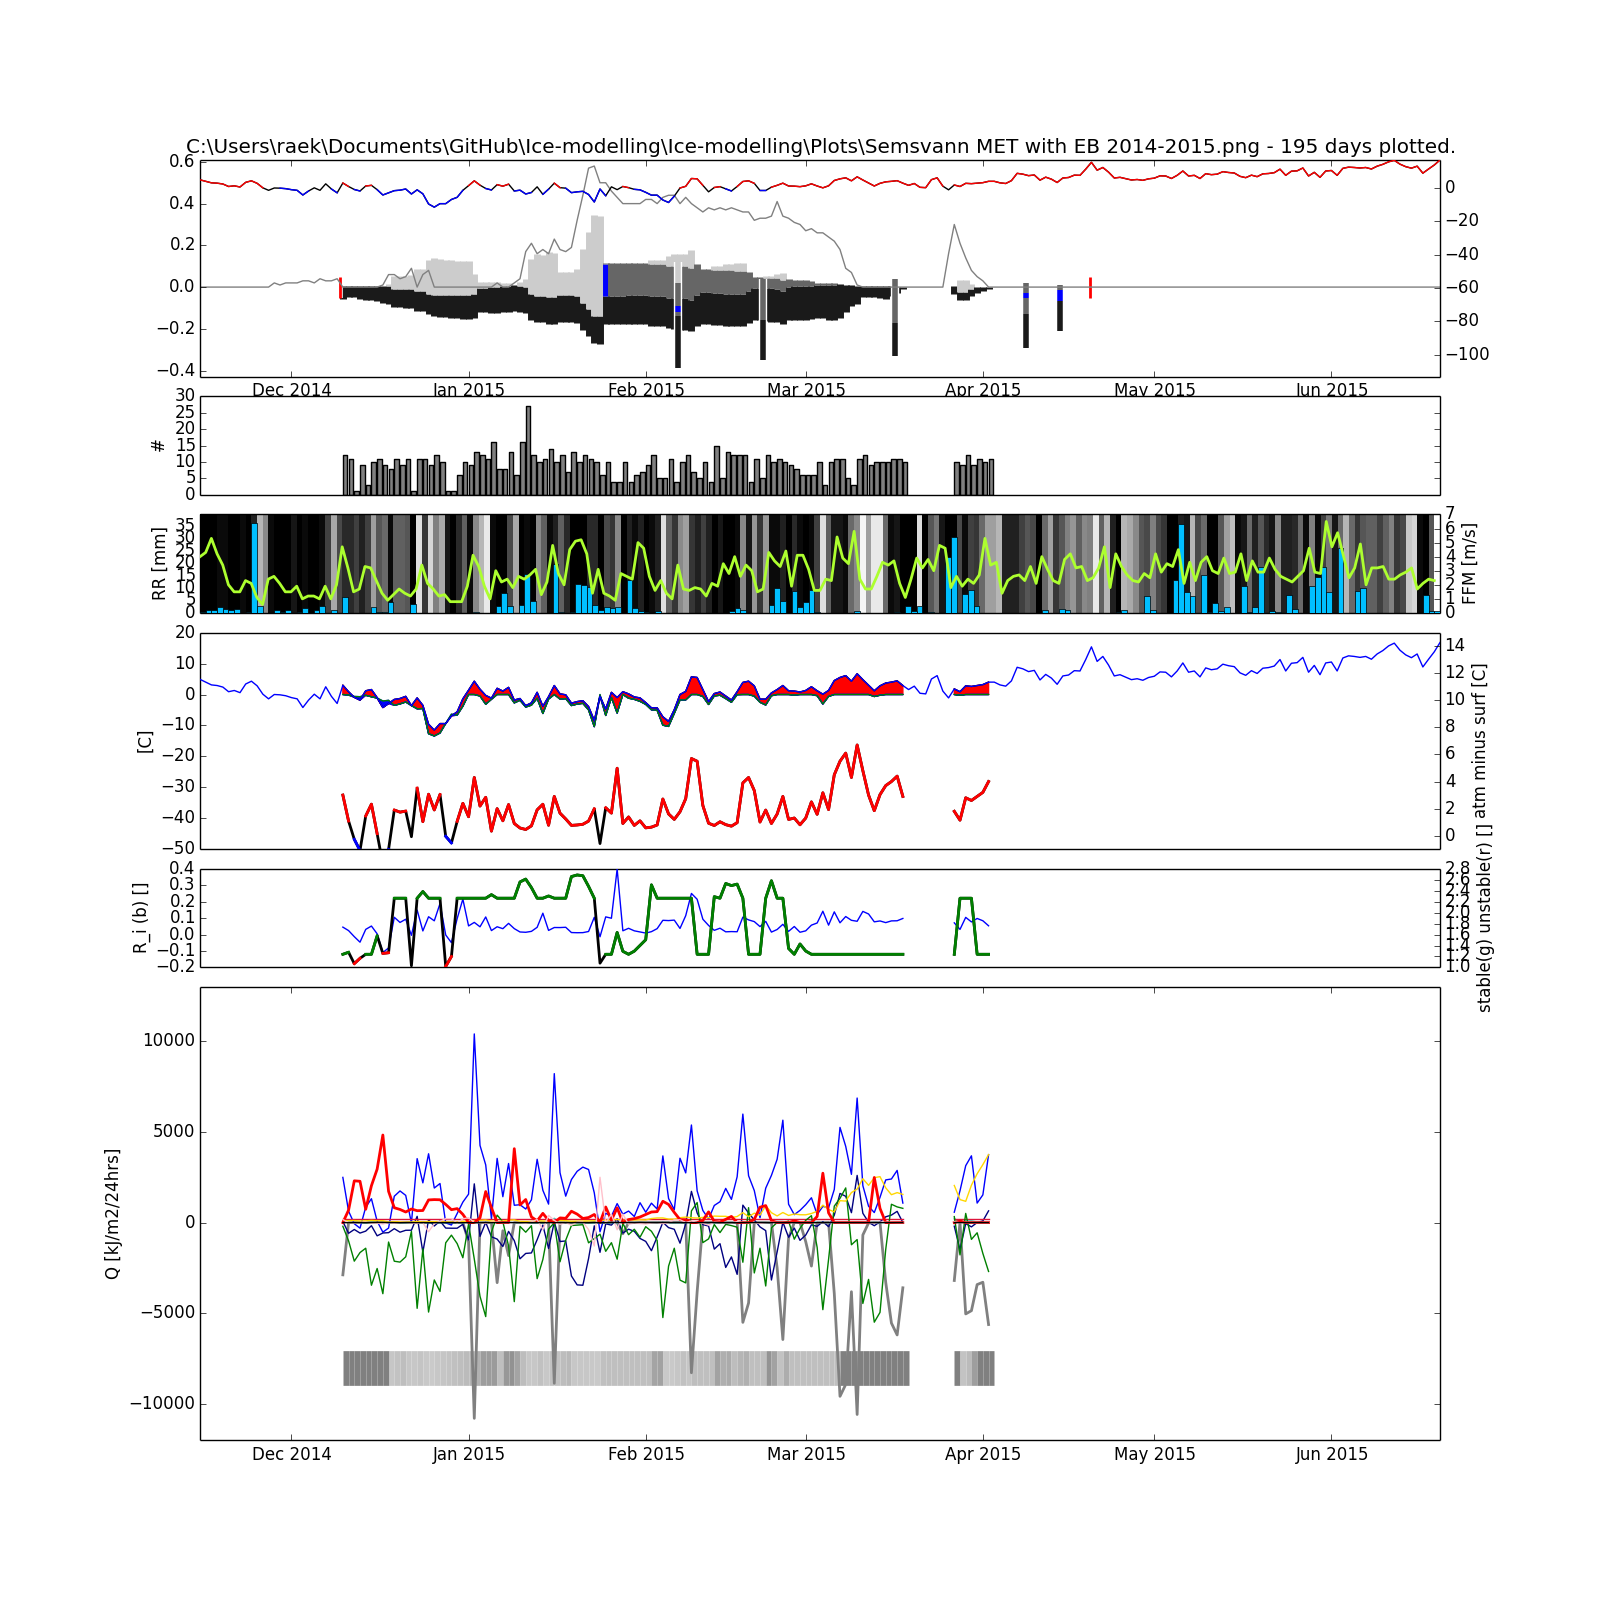
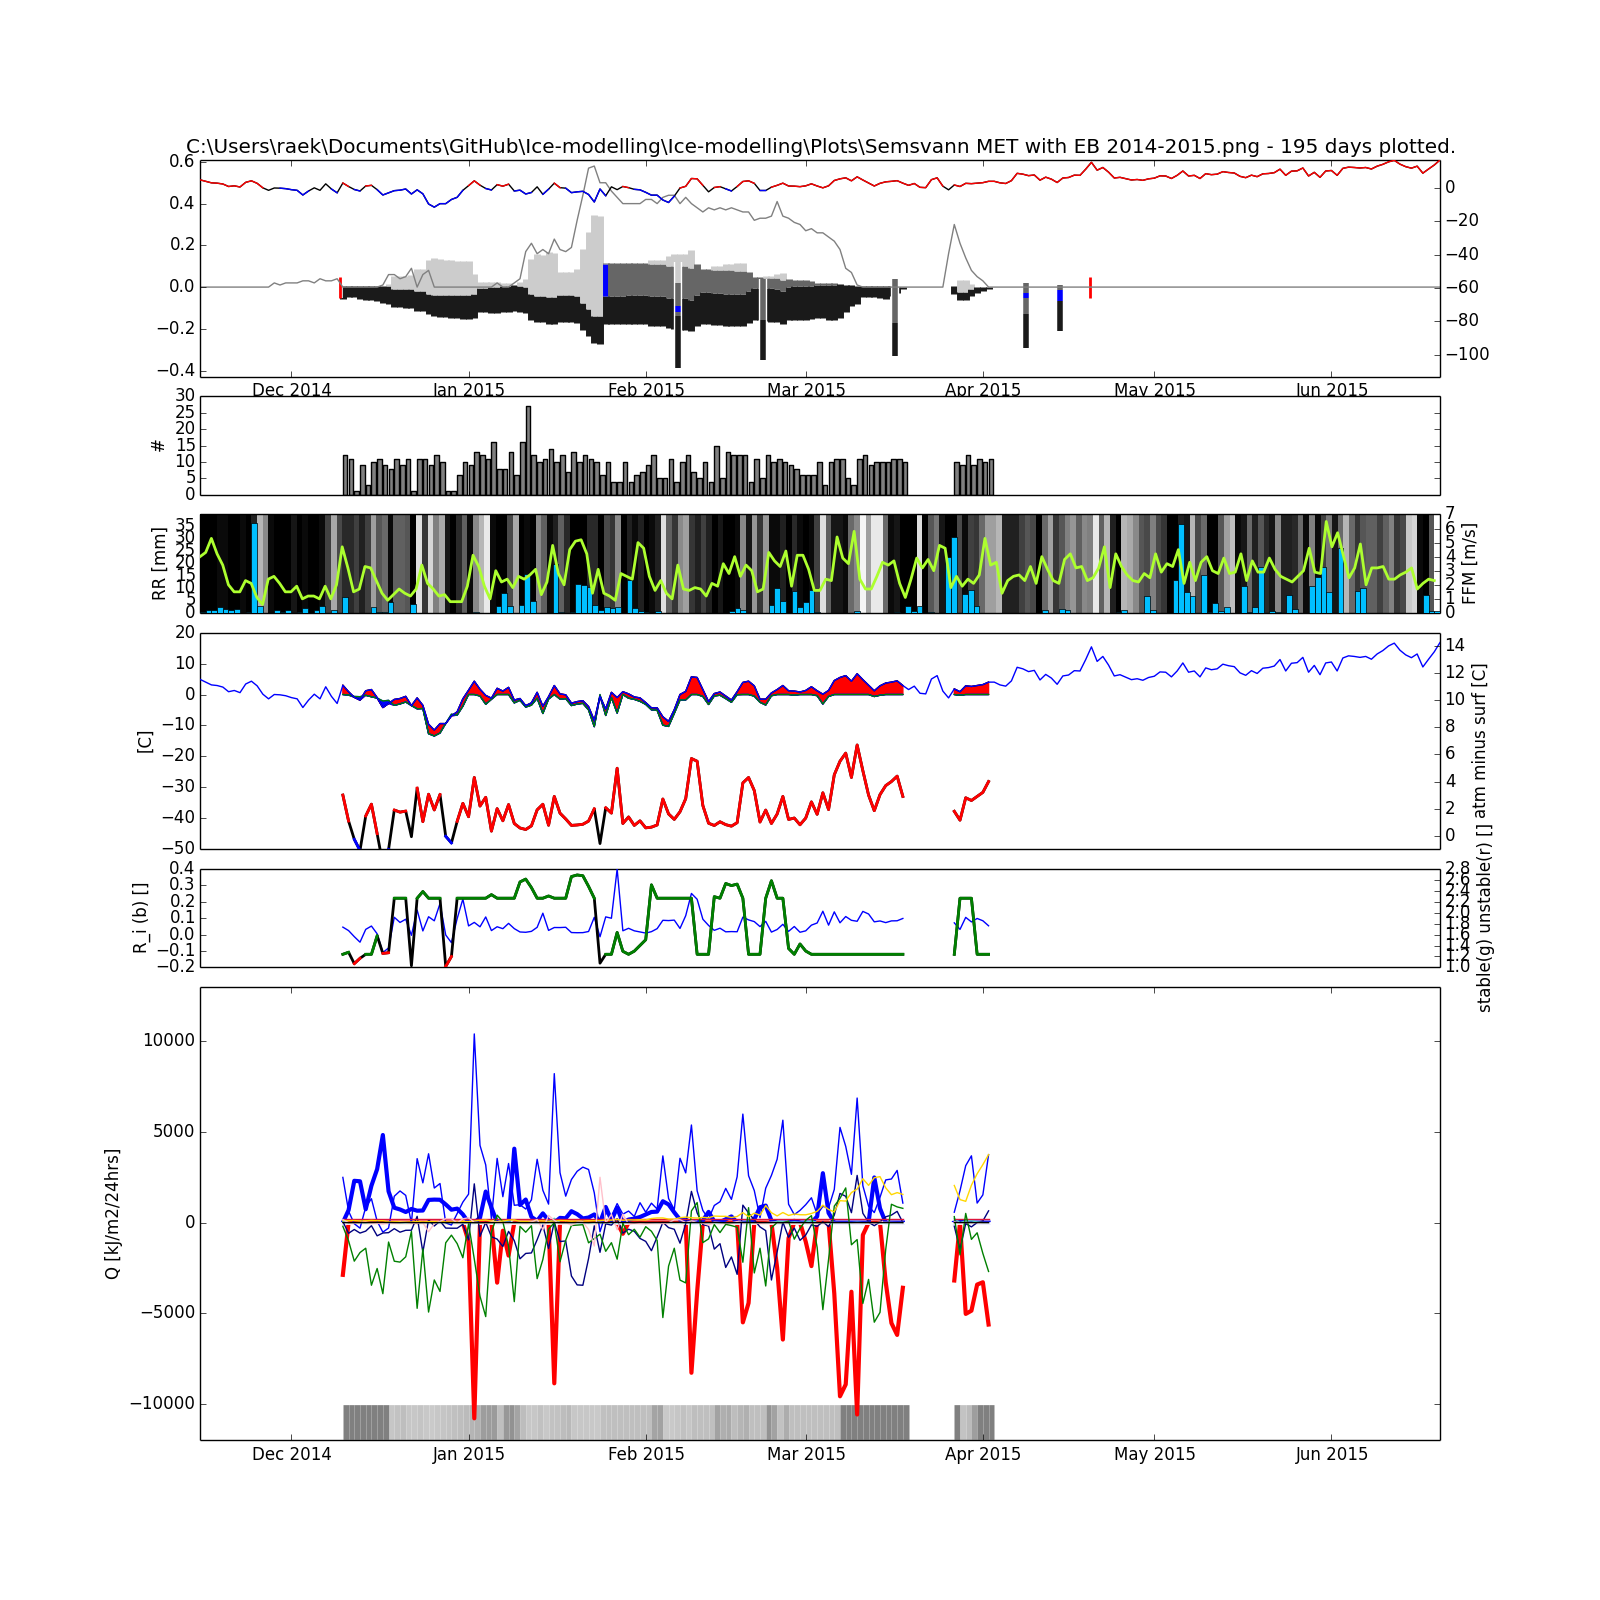
testing different turbulent flux methods

Changed region(s): [[0.2188, 0.7188, 0.625, 0.9062], [0.2188, 0.7188, 0.25, 0.75]]

diff --git a/Ice-modelling/makePlots.py b/Ice-modelling/makePlots.py
@@ -431,19 +431,21 @@ def plot_ice_cover_eb(
 
 
 
-    #############################
+    ############# Energy terms and albedo ################
     pplt.subplot2grid((11, 1), (7, 0), rowspan=4)
 
 
     # plot surface albedo
     for i in range(0, len(albedo) - 1, 1):
         if albedo[i] > 0.:
-            plb.hlines(-8000, date[i], date[i + 1], lw=25, color=str(albedo[i]))
+            plb.hlines(-11000, date[i], date[i + 1], lw=25, color=str(albedo[i]))
         elif clouds[i] == np.nan:
-            plb.hlines(-8000, date[i], date[i + 1], lw=25, color="1.0")
+            plb.hlines(-11000, date[i], date[i + 1], lw=25, color="1.0")
 
 
-    plb.plot(date, SM, "gray", lw=2)
+    plb.plot(date, SM, "red", lw=3)
+    plb.plot(date, SC, "blue", lw=3)
+    plb.plot(date, [0.]*len(date), "white", lw=2)
     plb.plot(date, H, "blue")
     plb.plot(date, LE, "navy")
     plb.plot(date, R, "turquoise")
@@ -451,7 +453,6 @@ def plot_ice_cover_eb(
     plb.plot(date, L, "green", lw=1)
     plb.plot(date, S, "gold", lw=1)
     #plb.plot(date, s_inn, "gold", lw=1)
-    plb.plot(date, SC, "red", lw=2)
     plb.plot(date, CC, "pink", lw=1)
     plb.plot(date, EB, "black")
 

diff --git a/Ice-modelling/doenergybalance.py b/Ice-modelling/doenergybalance.py
@@ -698,6 +698,7 @@ def get_turbulent_flux_MARTIN_1998(
 
     # Richardsons number relating horizontal (nominator) vs vertical (denominator) momentum in the atmosphere,
     R_i = 2*g/(temp_atm - const.absolute_zero) * (temp_atm - temp_surface)/zt * zu/wind     # error in paper. use Z_a not Z_0
+    #R_i = 0
     stability_correction = 1        # neutral case (R_i = 0)
     if R_i > 0:                     # for stable case
         stability_correction = rho_air * c_air * coeff_n * max( 0.75 , (1-5*R_i)**2 )       # eq 8 in paper
@@ -767,6 +768,7 @@ def get_turbulent_flux_YOU_2014(
     # Richardsons number relating horizontal (nominator) vs vertical (denominator) momentum in the atmosphere,
     # Correction when temperature gradient near surface.
     R_i = g * zu * (temp_atm-temp_surface) / (0.5 * (temp_atm + temp_surface - const.absolute_zero*2) * wind**2)
+    #R_i = 0
     stability_correction = 1
     if R_i > 0:             # for stable conditions
         stability_correction = 1/(1+10*R_i)

diff --git a/Ice-modelling/defaults.py b/Ice-modelling/defaults.py
@@ -25,5 +25,6 @@ num_iterations_max = 20
 default_albedo_method = "ueb"
 
 # get_turbulent_flux
+#default_turbulent_flux_method = "YOU 2014"
 default_turbulent_flux_method = "MARTIN 1998"
 
